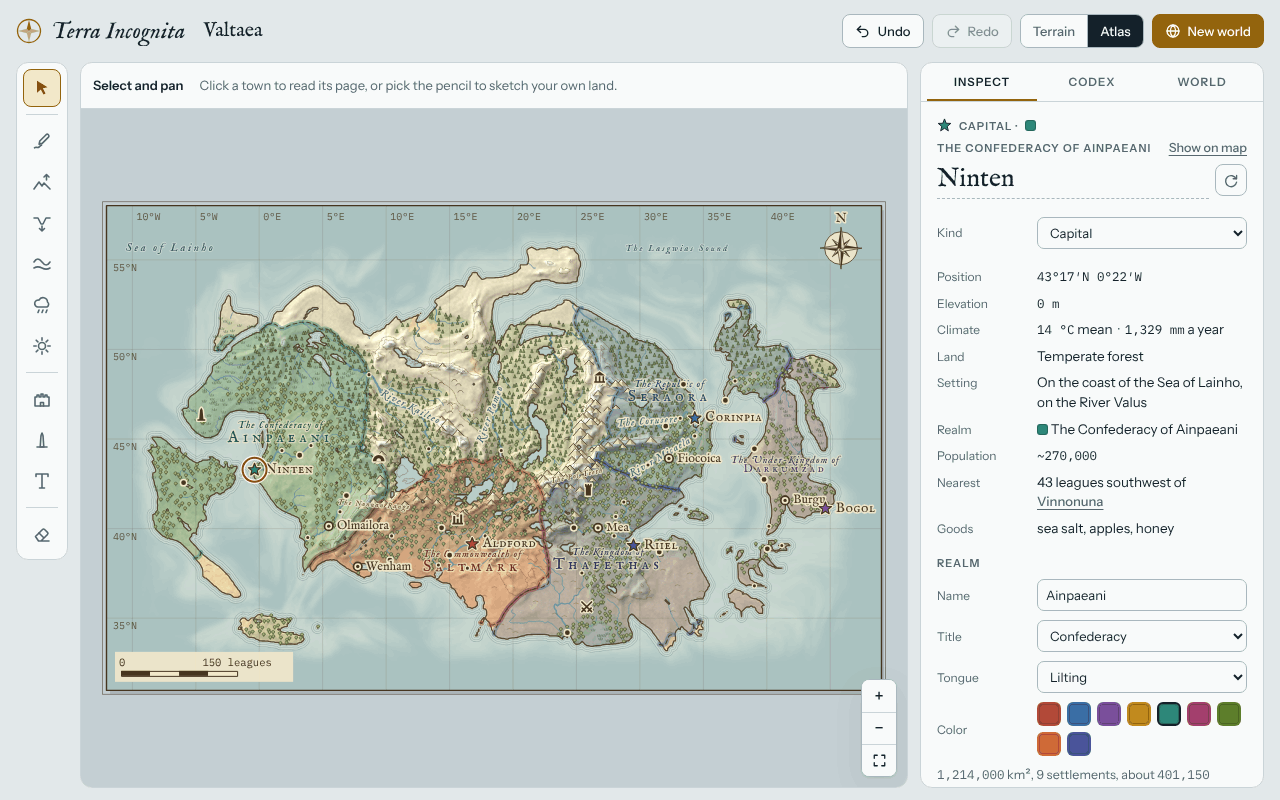
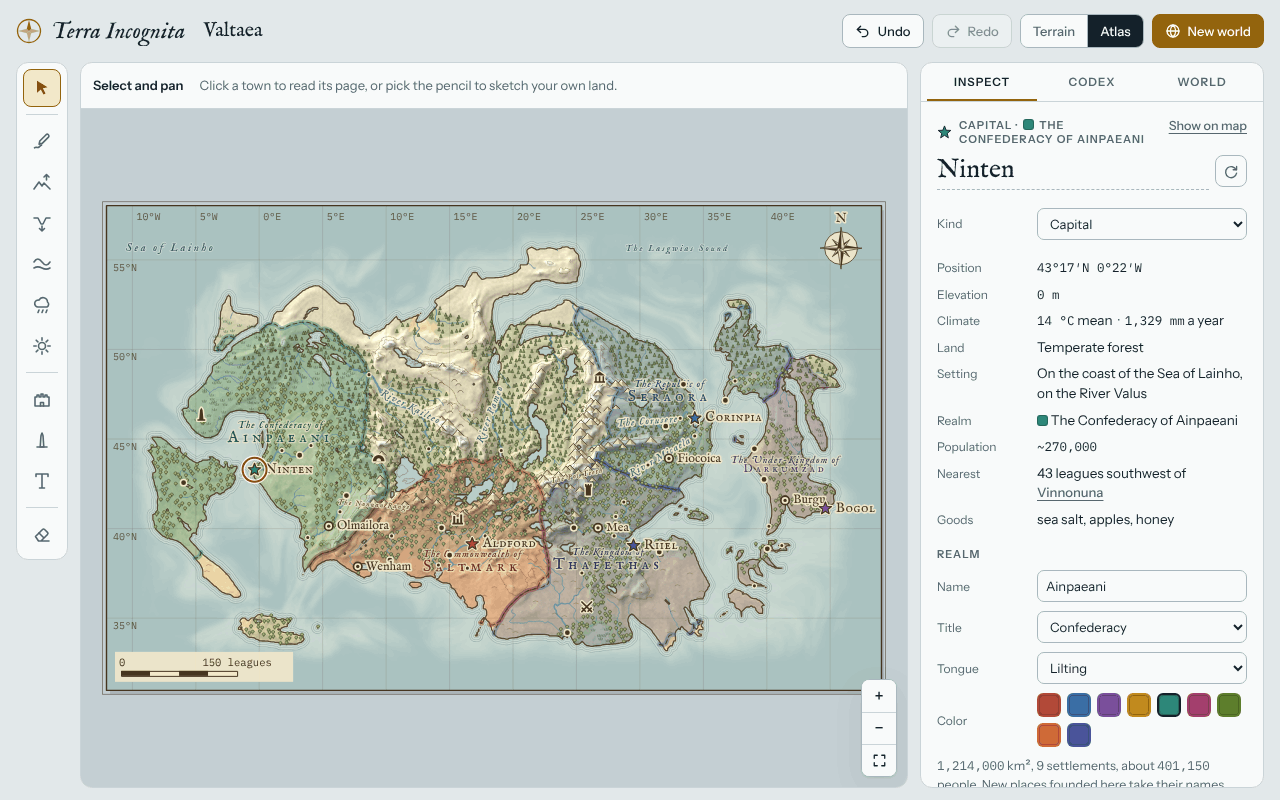
Keep a realm's colour beside its name on a place's page
Show on map went into the line above a place's name, and in the laptop's narrow panel it
pushed the realm's name down a line while its colour stayed behind at the end of the line
above. The kind and the realm now run on as one piece of text that wraps beside Show on map,
so the colour stays with the name, and the line takes no more room than before. The README's
laptop picture is redrawn to show it.

Claude-Session: https://claude.ai/code/session_01PQbLNV8yuVmPjyBMzr2F36

diff --git a/js/app.js b/js/app.js
@@ -2162,7 +2162,7 @@ function placeHTML(p) {
   }
   const busy = draft.busy && draft.placeId === p.id;
   return `<div>
-      <p class="eyebrow"><span class="glyph">${kindGlyph(p, 15)}</span>${esc(kindLabel(p))}${f.realm ? ` · <span class="swatch" style="background:${f.realm.color}"></span>${esc(f.realm.display)}` : ''}${SHOW_ON_MAP}</p>
+      <p class="eyebrow"><span class="glyph">${kindGlyph(p, 15)}</span><span class="eb-text">${esc(kindLabel(p))}${f.realm ? ` · <span class="swatch" style="background:${f.realm.color}"></span>${esc(f.realm.display)}` : ''}</span>${SHOW_ON_MAP}</p>
       <div class="name-row"><label class="sr" for="pName">Name</label><input id="pName" class="name-input" value="${esc(p.name)}" autocomplete="off" spellcheck="false">
       <button class="icon-btn" id="pReroll" title="Suggest another name" aria-label="Suggest another name">${svgIcon('<path d="M16 4v4h-4"/><path d="M15.5 8A6.5 6.5 0 1 0 16 12"/>', 17)}</button></div>
     </div>

diff --git a/css/app.css b/css/app.css
@@ -146,6 +146,10 @@ textarea{width:100%;min-height:130px;font:14px/1.55 var(--f-ui);border:1px solid
 .link.danger{color:var(--danger)}
 #wOldSaveDrop{display:block;margin-top:4px}
 .tool-link svg{vertical-align:-3px;margin-right:3px}
+/* A place's kind and realm run on as one line of text, which wraps beside Show on map, so the realm's colour stays
+   beside its name. */
+.eyebrow .eb-text{flex:1 1 0}
+.eyebrow .eb-text .swatch{margin:0 5px 0 2px}
 .eyebrow .show-on-map{margin-left:auto;text-transform:none;letter-spacing:0;font-size:12.5px}
 .facts .sep{margin:0 .4em;color:var(--muted)}
 .welcome .lede{font-family:var(--f-display);font-size:17px;line-height:1.4;color:var(--ink)}

diff --git a/sw.js b/sw.js
@@ -9,7 +9,7 @@
 // fingerprint of every file in SHELL: change any of them and test/e2e.mjs fails until FILES is changed to match (it
 // says what to), which changes this file, so every copy is made whole again at once.
 const CACHE = 'terra-incognita-v2'; // bump the number when the file list changes
-const FILES = 'c0d1fcf3'; // test/e2e.mjs checks this
+const FILES = '4ef60076'; // test/e2e.mjs checks this
 const SHELL = [
   './', 'index.html', 'css/app.css', 'js/app.js', 'js/edge-guard.js', 'manifest.webmanifest', 'icon.svg',
   'fonts/im-fell-english.woff2', 'fonts/im-fell-english-italic.woff2', 'fonts/im-fell-english-sc.woff2',
